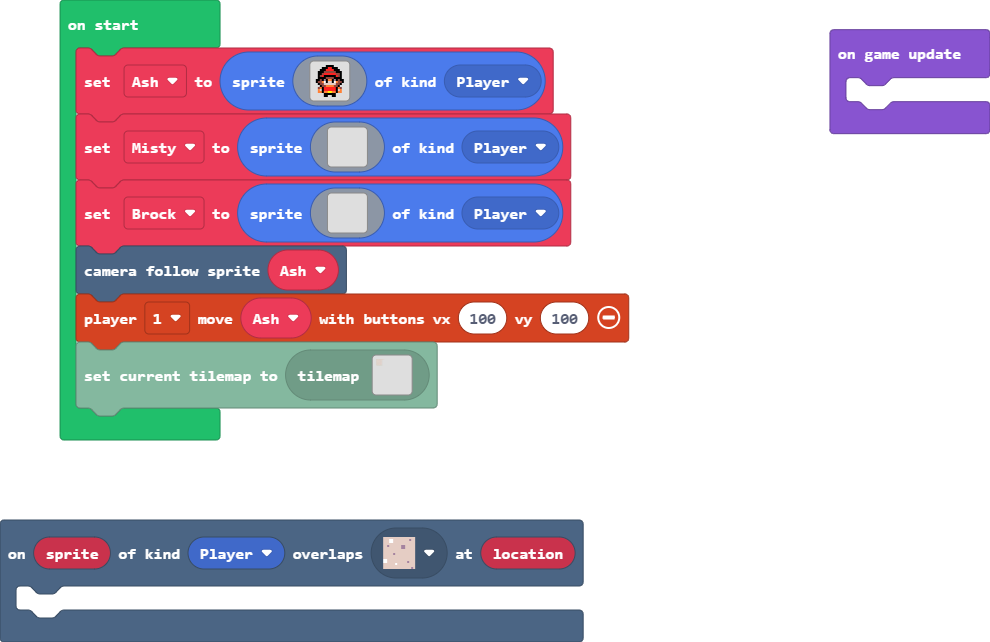
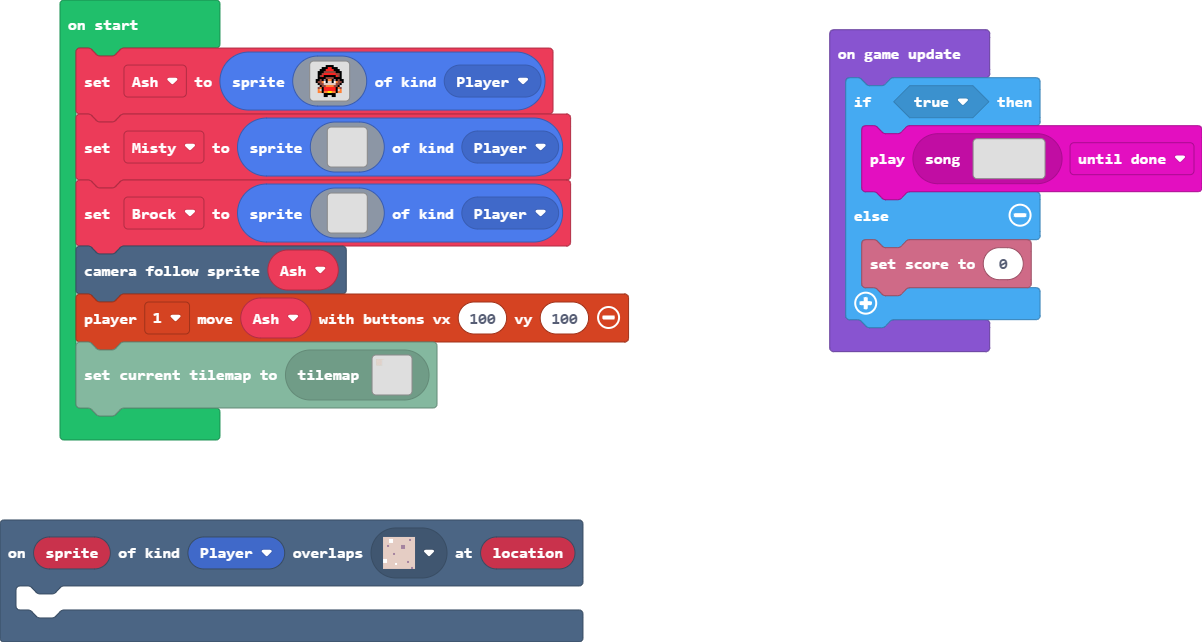
Update main.blocks, main.ts

diff --git a/main.ts b/main.ts
@@ -59,5 +59,9 @@ scene.cameraFollowSprite(Ash)
 controller.player1.moveSprite(Ash, 100, 100)
 tiles.loadMap(tiles.createMap(tilemap`level1`))
 game.onUpdate(function () {
-	
+    if (true) {
+        music.play(music.createSong(hex`00780004080200`), music.PlaybackMode.UntilDone)
+    } else {
+        info.setScore(0)
+    }
 })
